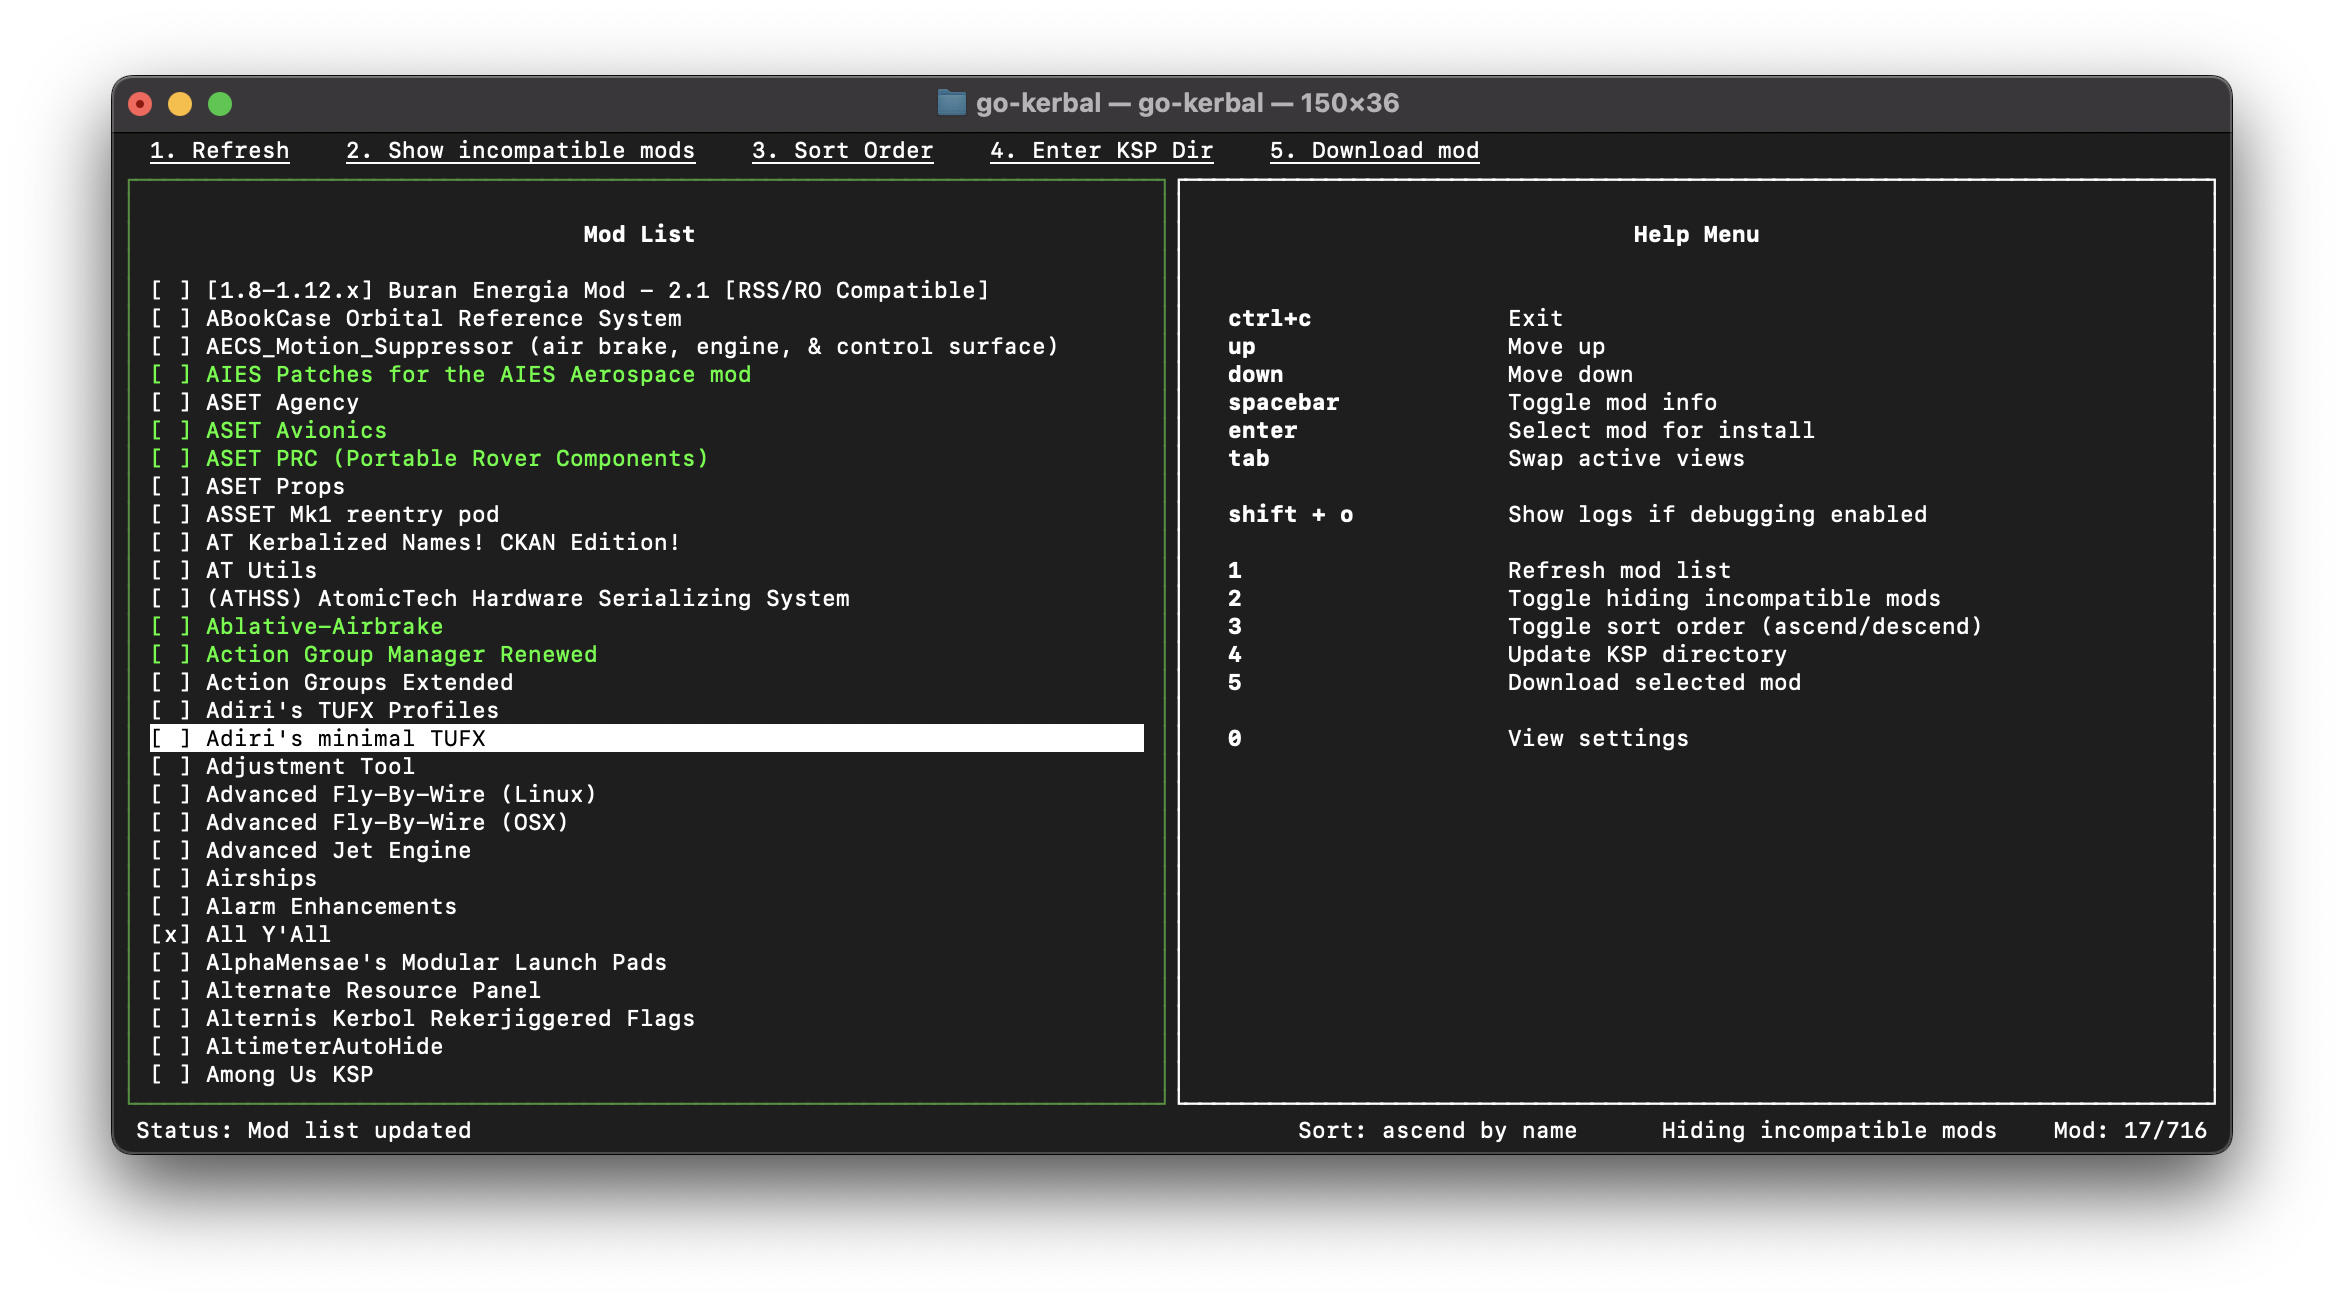
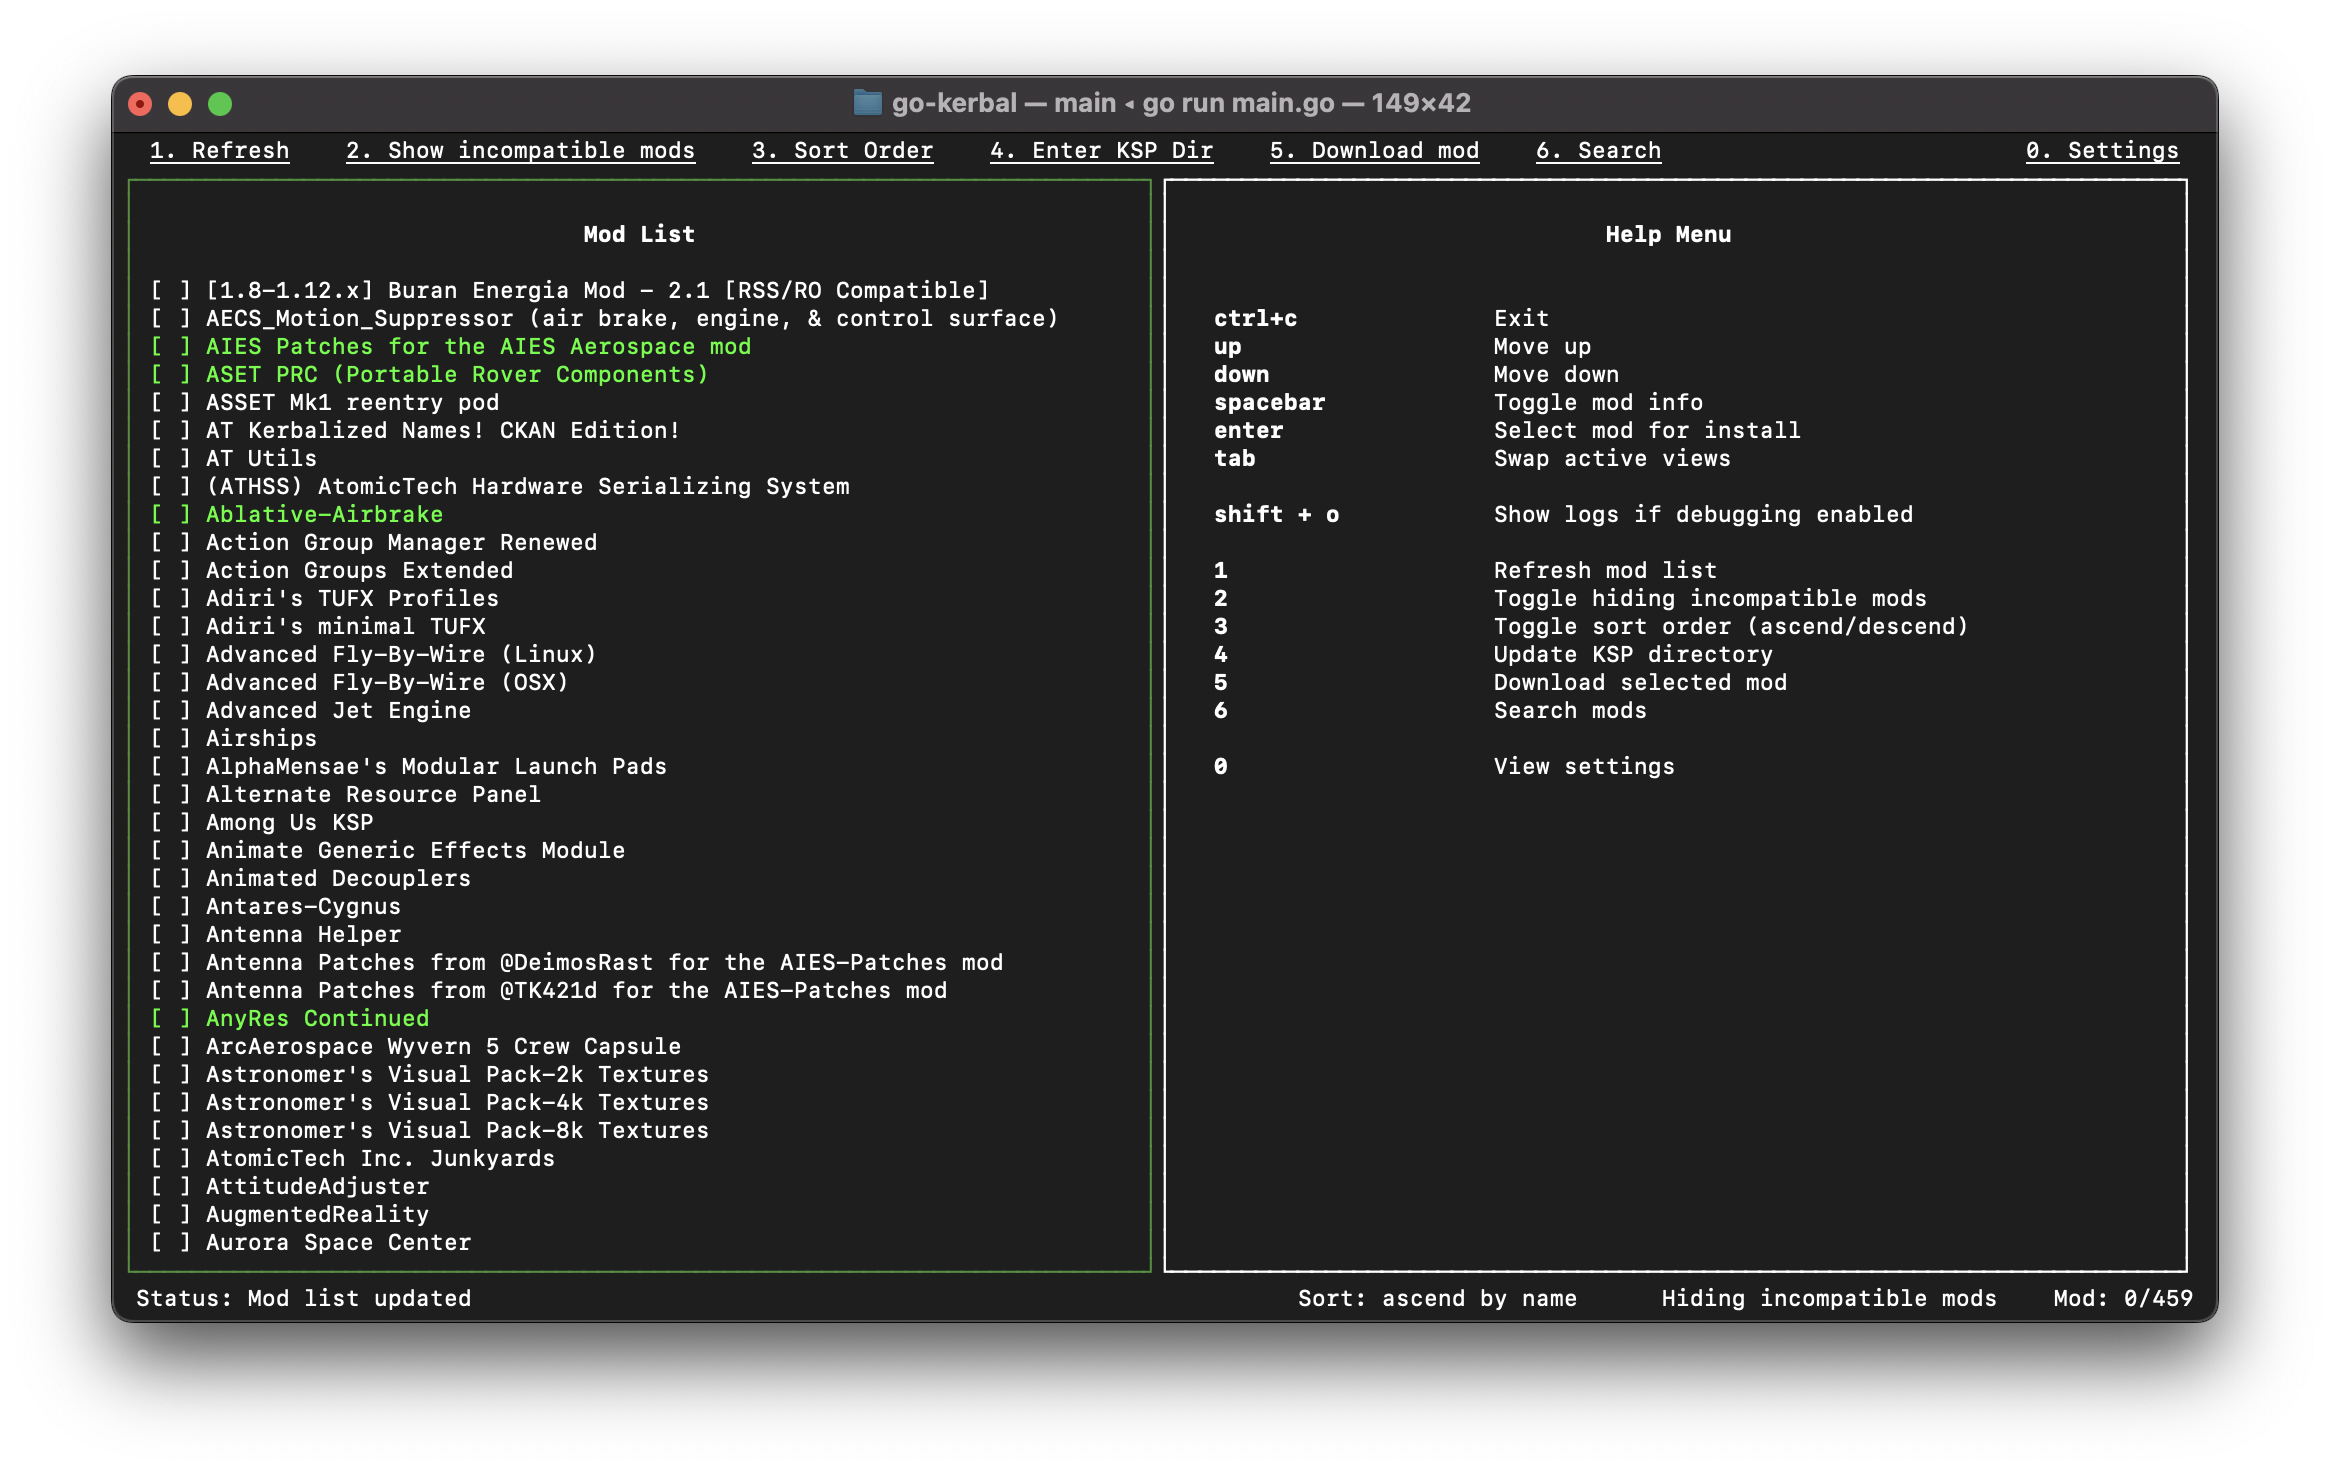
minor tweaks

Changed region(s): [[0.0309, 0.0307, 0.9579, 0.9217], [0.618, 0.2151, 0.8343, 0.5837]]

diff --git a/core/tui/update.go b/core/tui/update.go
@@ -3,12 +3,14 @@ package tui
 import (
 	"fmt"
 	"log"
+	"unicode/utf8"
 
 	"github.com/charmbracelet/bubbles/key"
 	"github.com/charmbracelet/bubbles/textinput"
 	tea "github.com/charmbracelet/bubbletea"
 	"github.com/jedwards1230/go-kerbal/cmd/config"
 	"github.com/jedwards1230/go-kerbal/cmd/constants"
+	"github.com/jedwards1230/go-kerbal/registry/database"
 	"github.com/spf13/viper"
 )
 
@@ -172,14 +174,17 @@ func (b *Bubble) handleKeys(msg tea.KeyMsg) tea.Cmd {
 	case key.Matches(msg, b.keyMap.Enter):
 		if b.inputRequested {
 			if b.searchInput {
+				b.textInput.Blur()
+				b.inputRequested = false
 				log.Printf("UPDATE: Start searching: %v", b.textInput.Value())
 			} else {
 				cmds = append(cmds, b.updateKspDirCmd(b.textInput.Value()))
 			}
 		} else {
+			modMap := b.registry.GetActiveModMap()
 			// add/remove mods from selected list
 			id := b.registry.ModMapIndex[b.nav.listCursor]
-			mod := b.registry.SortedCompatibleMap[id.Key]
+			mod := modMap[id.Key]
 			if b.nav.installSelected[mod.Identifier].Identifier != "" {
 				delete(b.nav.installSelected, mod.Identifier)
 			} else {
@@ -193,6 +198,8 @@ func (b *Bubble) handleKeys(msg tea.KeyMsg) tea.Cmd {
 	// Escape
 	case key.Matches(msg, b.keyMap.Esc):
 		if !b.inputRequested || b.searchInput {
+			b.nav.listCursor = -1
+			b.nav.installSelected = make(map[string]database.Ckan, 0)
 			b.textInput.Blur()
 			b.textInput.Reset()
 			b.registry.SortModMap()
@@ -226,47 +233,55 @@ func (b *Bubble) handleKeys(msg tea.KeyMsg) tea.Cmd {
 		}
 	// Refresh list
 	case key.Matches(msg, b.keyMap.RefreshList):
-		b.logs = append(b.logs, "Getting mod list")
-		cmds = append(cmds, b.getAvailableModsCmd())
+		if !b.searchInput && !b.inputRequested {
+			b.logs = append(b.logs, "Getting mod list")
+			cmds = append(cmds, b.getAvailableModsCmd())
+		}
 	// Hide incompatible
 	case key.Matches(msg, b.keyMap.HideIncompatible):
-		b.logs = append(b.logs, "Toggling compatible mod view")
-		viper.Set("settings.hide_incompatible", !cfg.Settings.HideIncompatibleMods)
-		viper.WriteConfigAs(viper.ConfigFileUsed())
-		cmds = append(cmds, b.getAvailableModsCmd())
+		if !b.inputRequested {
+			b.logs = append(b.logs, "Toggling compatible mod view")
+			viper.Set("settings.hide_incompatible", !cfg.Settings.HideIncompatibleMods)
+			viper.WriteConfigAs(viper.ConfigFileUsed())
+			cmds = append(cmds, b.getAvailableModsCmd())
+		}
 	// Swap sort order
 	case key.Matches(msg, b.keyMap.SwapSortOrder):
-		if b.registry.SortOptions.SortOrder == "ascend" {
-			b.registry.SortOptions.SortOrder = "descend"
-		} else if b.registry.SortOptions.SortOrder == "descend" {
-			b.registry.SortOptions.SortOrder = "ascend"
+		if !b.inputRequested {
+			if b.registry.SortOptions.SortOrder == "ascend" {
+				b.registry.SortOptions.SortOrder = "descend"
+			} else if b.registry.SortOptions.SortOrder == "descend" {
+				b.registry.SortOptions.SortOrder = "ascend"
+			}
+			b.logs = append(b.logs, "Swapping sort order to "+b.registry.SortOptions.SortOrder)
+			log.Printf("Swapping sort order to %s", b.registry.SortOptions.SortOrder)
+			b.registry.SortModMap()
+			b.activeBox = constants.PrimaryBoxActive
+			b.checkActiveViewPortBounds()
+			b.primaryViewport.GotoTop()
+			b.primaryViewport.SetContent(b.modListView())
+			b.secondaryViewport.SetContent(b.modInfoView())
 		}
-		b.logs = append(b.logs, "Swapping sort order to "+b.registry.SortOptions.SortOrder)
-		log.Printf("Swapping sort order to %s", b.registry.SortOptions.SortOrder)
-		b.registry.SortModMap()
-		b.activeBox = constants.PrimaryBoxActive
-		b.checkActiveViewPortBounds()
-		b.primaryViewport.GotoTop()
-		b.primaryViewport.SetContent(b.modListView())
-		b.secondaryViewport.SetContent(b.modInfoView())
 	// Input KSP dir
 	// TODO: This has been hanging/acting slow. Something is wrong.
 	case key.Matches(msg, b.keyMap.EnterKspDir):
-		if b.activeBox == constants.SplashBoxActive && !b.inputRequested {
-			b.inputRequested = false
-			b.activeBox = constants.PrimaryBoxActive
-			b.primaryViewport.SetContent(b.modListView())
-			b.secondaryViewport.SetContent(b.modInfoView())
-		} else {
-			b.activeBox = constants.SplashBoxActive
-			b.inputRequested = true
-			b.textInput.Placeholder = "KSP Directory..."
-			b.textInput.Focus()
-			b.textInput.Reset()
-			if b.appConfig.Settings.KerbalDir != "" {
-				b.textInput.SetValue(b.appConfig.Settings.KerbalDir)
+		if !b.searchInput {
+			if b.activeBox == constants.SplashBoxActive && !b.inputRequested {
+				b.inputRequested = false
+				b.activeBox = constants.PrimaryBoxActive
+				b.primaryViewport.SetContent(b.modListView())
+				b.secondaryViewport.SetContent(b.modInfoView())
+			} else {
+				b.activeBox = constants.SplashBoxActive
+				b.inputRequested = true
+				b.textInput.Placeholder = "KSP Directory..."
+				b.textInput.Focus()
+				b.textInput.Reset()
+				if b.appConfig.Settings.KerbalDir != "" {
+					b.textInput.SetValue(b.appConfig.Settings.KerbalDir)
+				}
+				return textinput.Blink
 			}
-			return textinput.Blink
 		}
 	// Download selected mod
 	case key.Matches(msg, b.keyMap.Download):
@@ -275,6 +290,8 @@ func (b *Bubble) handleKeys(msg tea.KeyMsg) tea.Cmd {
 	// Search mods
 	case key.Matches(msg, b.keyMap.Search):
 		if b.searchInput && b.inputRequested {
+			val := trimLastChar(b.textInput.Value())
+			b.textInput.SetValue(val)
 			b.inputRequested = false
 			b.textInput.Blur()
 		} else if b.searchInput && !b.inputRequested {
@@ -285,7 +302,6 @@ func (b *Bubble) handleKeys(msg tea.KeyMsg) tea.Cmd {
 			b.searchInput = true
 			b.inputRequested = true
 			b.textInput.Reset()
-			b.textInput.Focus()
 			b.textInput.Placeholder = "Search..."
 			return textinput.Blink
 		}
@@ -303,6 +319,14 @@ func (b *Bubble) handleKeys(msg tea.KeyMsg) tea.Cmd {
 	}
 
 	return tea.Batch(cmds...)
+}
+
+func trimLastChar(s string) string {
+	r, size := utf8.DecodeLastRuneInString(s)
+	if r == utf8.RuneError && (size == 0 || size == 1) {
+		size = 0
+	}
+	return s[:len(s)-size]
 }
 
 // Handles wrapping and button

diff --git a/core/tui/view.go b/core/tui/view.go
@@ -91,6 +91,7 @@ func (b Bubble) modListView() string {
 		Width(b.primaryViewport.Width).
 		Height(3).
 		Padding(1)
+
 	title := titleStyle.Render("Mod List")
 	if b.searchInput {
 		title = titleStyle.Render("Search Mods")
@@ -98,7 +99,6 @@ func (b Bubble) modListView() string {
 
 	s := ""
 	for i, id := range b.registry.ModMapIndex {
-
 		mod := modMap[id.Key]
 
 		checked := " "
@@ -426,16 +426,29 @@ func (b Bubble) statusBarView() string {
 func (b Bubble) getMainButtonsView() string {
 	cfg := config.GetConfig()
 
-	if b.searchInput {
-		buttonStyle := lipgloss.NewStyle().
-			Underline(true).
-			Padding(0, 2).
-			Width(b.width / 2).
-			Height(constants.StatusBarHeight)
+	buttonStyle := lipgloss.NewStyle().
+		Underline(true).
+		Padding(0, 2).
+		Height(constants.StatusBarHeight)
 
+	showCompatible := buttonStyle.Render("2. Hide incompatible mods")
+	if cfg.Settings.HideIncompatibleMods {
+		showCompatible = buttonStyle.Render("2. Show incompatible mods")
+	}
+	sortOrder := buttonStyle.Render("3. Sort Order")
+	download := buttonStyle.Render("5. Download mod")
+
+	if b.searchInput {
 		escape := buttonStyle.
 			Align(lipgloss.Left).
 			Render("Esc to close")
+
+		leftColumn := lipgloss.JoinHorizontal(lipgloss.Top,
+			escape,
+			showCompatible,
+			sortOrder,
+			download,
+		)
 
 		enableInput := buttonStyle.
 			Align(lipgloss.Right).
@@ -446,24 +459,15 @@ func (b Bubble) getMainButtonsView() string {
 				Render("6. Disable text input")
 		}
 
+		leftColumn = lipgloss.NewStyle().Width(b.width - lipgloss.Width(enableInput)).Render(leftColumn)
+
 		return lipgloss.JoinHorizontal(lipgloss.Top,
-			escape,
+			leftColumn,
 			enableInput,
 		)
 	} else {
-		buttonStyle := lipgloss.NewStyle().
-			Underline(true).
-			Padding(0, 2).
-			Height(constants.StatusBarHeight)
-
 		refresh := buttonStyle.Render("1. Refresh")
-		showCompatible := buttonStyle.Render("2. Hide incompatible mods")
-		if cfg.Settings.HideIncompatibleMods {
-			showCompatible = buttonStyle.Render("2. Show incompatible mods")
-		}
-		sortOrder := buttonStyle.Render("3. Sort Order")
 		enterDir := buttonStyle.Render("4. Enter KSP Dir")
-		download := buttonStyle.Render("5. Download mod")
 		search := buttonStyle.Render("6. Search")
 
 		leftColumn := lipgloss.JoinHorizontal(lipgloss.Top,

diff --git a/registry/database/ckan.go b/registry/database/ckan.go
@@ -10,21 +10,20 @@ import (
 // CKAN Spec: https://github.com/KSP-CKAN/CKAN/blob/master/Spec.md
 
 type Ckan struct {
-	Identifier           string
-	Name                 string
-	Author               string
-	Abstract             string
-	License              string
-	SearchTags           map[string]interface{}
-	ModConflicts         []string
-	ModDepends           []string
-	IsCompatible         bool
-	Versions             versions
-	Install              install
-	Resources            resource
-	SearchableName       string
-	SearchableAbstract   string
-	SearchableIdentifier string
+	Identifier     string
+	Name           string
+	Author         string
+	Abstract       string
+	License        string
+	SearchTags     map[string]interface{}
+	ModConflicts   []string
+	ModDepends     []string
+	IsCompatible   bool
+	Versions       versions
+	Install        install
+	Resources      resource
+	SearchSpace    string
+	SearchableName string
 }
 
 type versions struct {
@@ -96,6 +95,10 @@ func CreateCkan(raw map[string]interface{}) (Ckan, error) {
 	}
 
 	if err := mod.cleanConflicts(raw); err != nil {
+		return mod, err
+	}
+
+	if err := mod.cleanSearchSpace(raw); err != nil {
 		return mod, err
 	}
 

diff --git a/registry/database/clean.go b/registry/database/clean.go
@@ -12,6 +12,13 @@ import (
 	"github.com/jedwards1230/go-kerbal/dirfs"
 )
 
+func (c *Ckan) cleanSearchSpace(raw map[string]interface{}) error {
+	searchSpace := fmt.Sprintf("%v %v %v %v", c.Name, c.Identifier, c.Author, dirfs.Strip(c.Abstract))
+
+	c.SearchSpace = searchSpace
+	return nil
+}
+
 func (c *Ckan) cleanNames(raw map[string]interface{}) error {
 	c.Name = strings.TrimSpace(raw["name"].(string))
 	if c.Name == "" {
@@ -27,7 +34,6 @@ func (c *Ckan) cleanIdentifiers(raw map[string]interface{}) error {
 	if c.Identifier == "" {
 		return errors.New("invalid file identifier")
 	}
-	c.SearchableIdentifier = dirfs.Strip(c.Name)
 
 	return nil
 }
@@ -198,11 +204,8 @@ func (c *Ckan) cleanVersions(raw map[string]interface{}) error {
 func (c *Ckan) cleanAbstract(raw map[string]interface{}) error {
 	c.Abstract = strings.TrimSpace(raw["abstract"].(string))
 	if c.Abstract == "" {
-		c.SearchableAbstract = ""
 		return errors.New("invalid abstract")
 	}
-	// TODO: strip common words (a, the, and, etc.)
-	c.SearchableAbstract = dirfs.Strip(c.Abstract)
 
 	return nil
 }

diff --git a/registry/registry.go b/registry/registry.go
@@ -75,6 +75,7 @@ func (r *Registry) SortModMap() error {
 
 	// Get map with most compatible mod
 	r.SortedCompatibleMap = getLatestVersionMap(getCompatibleModMap(r.TotalModMap))
+	log.Printf("Total Incompatible: %d", len(r.TotalModMap))
 	r.SortedNonCompatibleMap = getLatestVersionMap(r.TotalModMap)
 
 	if cfg.Settings.HideIncompatibleMods {
@@ -213,7 +214,7 @@ func (r *Registry) BuildSearchMapIndex(s string) (ModIndex, error) {
 
 	searchMapIndex := make(ModIndex, 0)
 	for id, mod := range modMap {
-		if strings.Contains(mod.Name, s) || strings.Contains(mod.Identifier, s) || strings.Contains(mod.Abstract, s) {
+		if strings.Contains(mod.SearchSpace, s) {
 			searchMapIndex = append(searchMapIndex, Entry{id, mod.Name})
 		}
 	}

diff --git a/core/tui/commands.go b/core/tui/commands.go
@@ -40,12 +40,12 @@ func (b Bubble) updateKspDirCmd(s string) tea.Cmd {
 	return func() tea.Msg {
 		log.Printf("Input received: %s", s)
 		kerbalDir, err := dirfs.FindKspPath(s)
-		if err != nil {
+		if err != nil || kerbalDir == "" {
+			log.Printf("Error finding KSP directory: %v, %s", err, s)
 			return UpdateKspDirMsg(false)
 		}
 		kerbalVer := dirfs.FindKspVersion(kerbalDir)
 		viper.Set("settings.kerbal_dir", kerbalDir)
-		// todo: crashed here setting current ksp dir as new ksp dir in-app
 		viper.Set("settings.kerbal_ver", kerbalVer.String())
 		viper.WriteConfigAs(viper.ConfigFileUsed())
 		log.Printf("Kerbal dir: " + kerbalDir + "/")

diff --git a/registry/database/database.go b/registry/database/database.go
@@ -154,7 +154,6 @@ func CheckRepoChanges() bool {
 func cloneRepo() (billy.Filesystem, error) {
 	cfg := config.GetConfig()
 	log.Println("Cloning database repo")
-	// Pull metadata repo
 	fs := memfs.New()
 	storer := memory.NewStorage()
 	r, err := git.Clone(storer, fs, &git.CloneOptions{

diff --git a/README.md b/README.md
@@ -11,12 +11,8 @@ go build && ./go-kerbal
 ## Features so far:
  * Automatically keeps metadata up to date
  * Compiles metadata and displays info in the TUI
- * Sorts by:
-   * name
- * Filters by:
-   * compatibility
-   * if installed (TODO)
-   * tag (TODO)
+ * Search mods with text input
+ * Sort mods
  * Displays logs in-app
  * Downloads and installs multiple mods
  * Finds Kerbal game directory (prompts for directory if not found)
@@ -26,7 +22,7 @@ go build && ./go-kerbal
 ![Main View](https://github.com/jedwards1230/go-kerbal/blob/main/screenshots/main.png?raw=true)
 ![Mod Selected](https://github.com/jedwards1230/go-kerbal/blob/main/screenshots/modInfo.png?raw=true)
 ![Log View](https://github.com/jedwards1230/go-kerbal/blob/main/screenshots/logs.png?raw=true)
-![Input Directory View](https://github.com/jedwards1230/go-kerbal/blob/main/screenshots/inputDir.png?raw=true)
+![Search View](https://github.com/jedwards1230/go-kerbal/blob/main/screenshots/search.png?raw=true)
 
 ## TODO:
 Check out the [Projects](https://github.com/jedwards1230/go-kerbal/projects?type=beta) tab.
